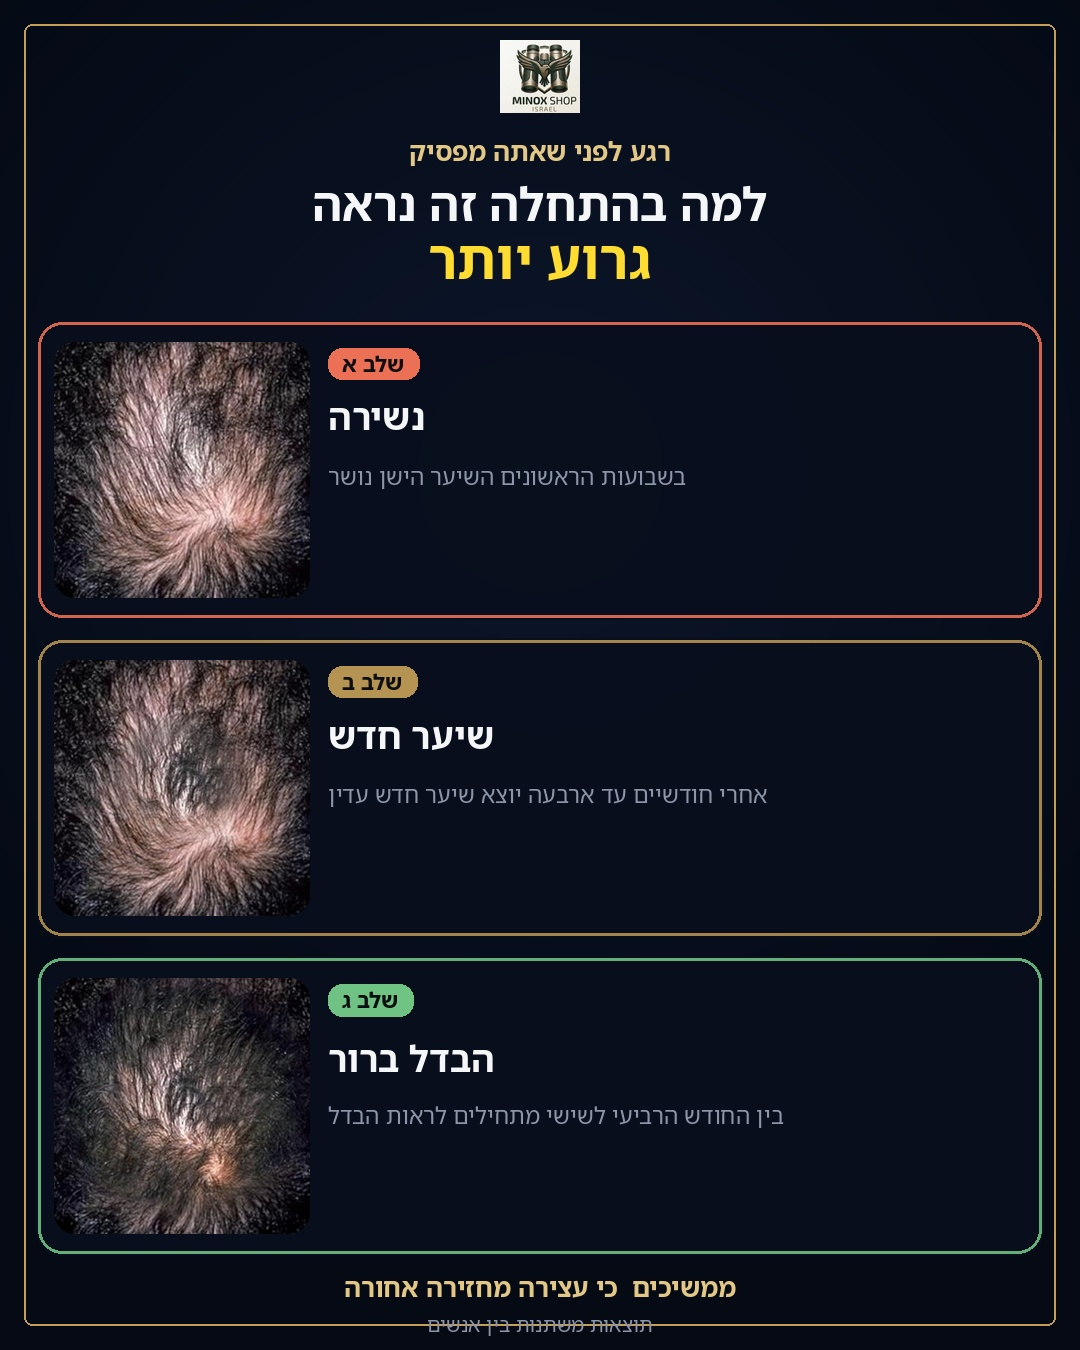
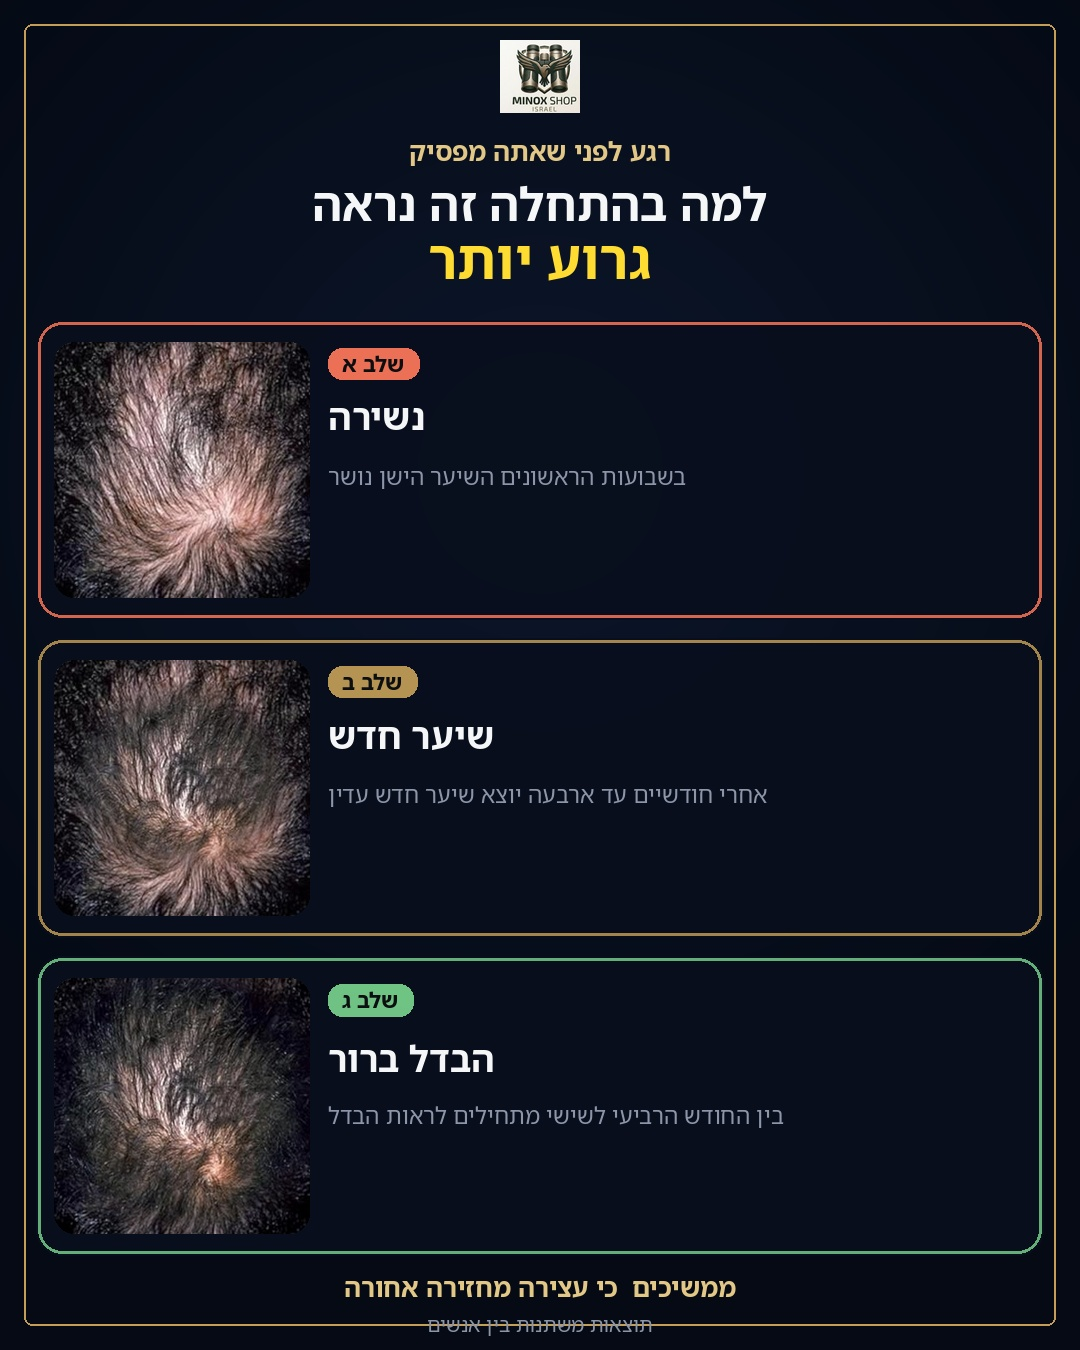
Strengthen mid-stage blend so A/B/C rank by eye

diff --git a/scripts/build_minox_static_shed_stages_v2.py b/scripts/build_minox_static_shed_stages_v2.py
@@ -180,8 +180,8 @@ PLATE_C = kill_bottom_banner(PLATE_C, 0.16)
 BASE_A = fit_square(PLATE_A, SZ, 0.44)
 BASE_C = fit_square(PLATE_C, SZ, 0.44)
 EARLY = ImageEnhance.Brightness(BASE_A).enhance(1.03)
-MID = soft_blend(BASE_A, BASE_C, 0.45)
-LATE = soft_blend(BASE_A, BASE_C, 0.92)  # same head as A/B, clearly denser
+MID = soft_blend(BASE_A, BASE_C, 0.68)  # clearly past A — fine fill visible
+LATE = soft_blend(BASE_A, BASE_C, 1.0)  # full after plate, same framing as A/B
 LATE = ImageEnhance.Contrast(LATE).enhance(1.05)
 
 
